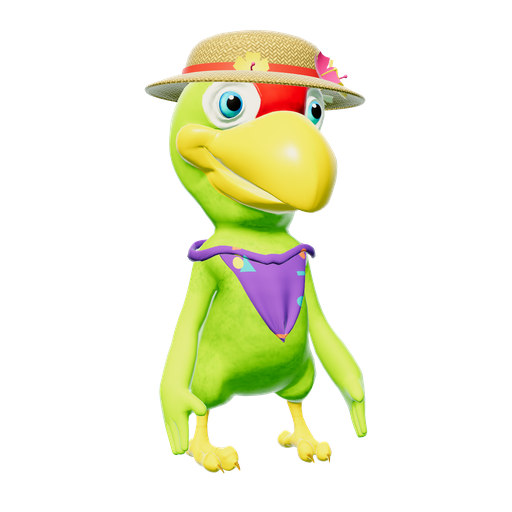
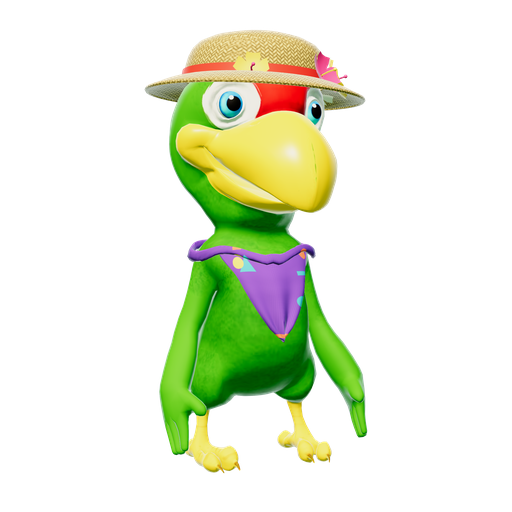
Vittata con el verde profundo v4 (Kelvin, 1-nov: «V4 perfecto, todas se ven iguales»)
- Piel vittata.jpg: su propia textura con el verde de las pieles de Kelvin; rojo, blanco, pico y ojos igual. Mismo modelo y rig (se aplica como piel, se deshace quitando la entrada).
- Retratos de Vittata, Iguaca, Abuela y Papá con el verde nuevo.
- pielesTest: 28 pieles; Vittata ahora tiene piel. Creador: 27 especies con piel.

Claude-Session: https://claude.ai/code/session_01CFhoPYgX5CfK78r6RNsNYz

Changed region(s): [[0.3125, 0.1562, 0.7188, 0.9062]]

diff --git a/src/pruebas/pieles.js b/src/pruebas/pieles.js
@@ -1,5 +1,5 @@
 /* AVE · AV.pielesTest: pieles de especie (src/personaje/pieles.js)
-   Las 27 cargan (1024², sRGB, flipY falso) y se aplican a un personaje aparte (no el jugador): cuerpo, pico y plumón de cría
+   Las 28 cargan (1024², sRGB, flipY falso) y se aplican a un personaje aparte (no el jugador): cuerpo, pico y plumón de cría
    con la piel y el tinte apagado; la piel fija sobrevive a applyLook; quitar() vuelve al mapa original; las especies sin
    piel conservan el tinte; solo se descarga la piel que un personaje pide, una vez.
    Devuelve { passed, total, results }. Se carga al pedir la prueba (boot.js), no en la descarga inicial del juego. */
@@ -17,23 +17,23 @@ window.AVPielesTest = function () {
     const nombre = e => decodeURIComponent(e.name.split('/').pop().replace(/\.jpg.*$/, ''));
     const sueltas = recursos().filter(e => pedidas.indexOf(nombre(e)) < 0);
     check('Carga perezosa: solo se descarga la piel que un personaje pide', !sueltas.length, sueltas.map(nombre).join(',') || (pedidas.length + ' pedidas antes de la prueba: ' + pedidas.join(',')));
-    // 2. Catálogo: 27 pieles; 26 enlazadas desde especies.js, sin especies inventadas
+    // 2. Catálogo: 28 pieles; 27 enlazadas desde especies.js, sin especies inventadas
     if (!window.AV_ESPECIES && window.AVE.assets) { try { await AVE.assets.script('content/comun/especies.js'); } catch (e) { /* falla abajo */ } }
     const sp = window.AV_ESPECIES ? window.AV_ESPECIES.especies : [];
     const enlazadas = sp.filter(x => x.piel);
-    check('Catálogo: 27 pieles distintas', PIELES.length === 27 && new Set(PIELES.map(p => p.piel)).size === 27, PIELES.length);
-    check('especies.js: 26 especies con piel y cada piel existe', enlazadas.length === 26 && enlazadas.every(x => POR_PIEL[x.piel] && POR_PIEL[x.piel].especie === x.id), enlazadas.length);
-    check('Vittata sigue sin piel (protagonista intacta)', !tiene('vittata'));
-    // 3. Las 27 cargan
+    check('Catálogo: 28 pieles distintas', PIELES.length === 28 && new Set(PIELES.map(p => p.piel)).size === 28, PIELES.length);
+    check('especies.js: 27 especies con piel y cada piel existe', enlazadas.length === 27 && enlazadas.every(x => POR_PIEL[x.piel] && POR_PIEL[x.piel].especie === x.id), enlazadas.length);
+    check('Vittata tiene su piel verde v4 (Kelvin, 1-nov; mismo modelo y rig)', tiene('vittata'));
+    // 3. Las 28 cargan
     const tex = await Promise.all(PIELES.map(p => cargar(p.piel)));
     const T = {}; PIELES.forEach((p, i) => { T[p.piel] = tex[i]; });
-    const malas = PIELES.filter((p, i) => !(tex[i] && tex[i].image && tex[i].image.width === 1024 && tex[i].image.height === 1024 && tex[i].flipY === false && tex[i].encoding === THREE.sRGBEncoding));
-    check('Las 27 pieles cargan (1024², sRGB, flipY falso)', !malas.length, malas.map(p => p.piel).join(','));
+    const malas = PIELES.filter((p, i) => !(tex[i] && tex[i].image && tex[i].image.width >= 512 && tex[i].image.width === tex[i].image.height && tex[i].flipY === false && tex[i].encoding === THREE.sRGBEncoding));
+    check('Las 28 pieles cargan (1024², o 512 si el look las topa; sRGB, flipY falso)', !malas.length, malas.map(p => p.piel).join(','));
     if (!window.AVCharacter) { check('Hay personaje para probar', false, 'sin AVCharacter'); return fin(); }
     // 4. Un personaje real aparte (no el jugador)
     const ch = await window.AVCharacter.create();
     try {
-      ch.applyLook({ species: 'vittata', accessories: {} });
+      ch.applyLook({ species: 'agilis', accessories: {} }); // sin piel: el mapa base es el del modelo
       const base = mapaBase(ch), on = ch.tint && ch.tint.tintOn.value;
       check('El personaje tiene mapa de color y tinte por máscaras', !!base && !!on);
       if (!base || !on) return fin();
@@ -53,25 +53,25 @@ window.AVPielesTest = function () {
         const ok = await aplicar(ch, p.especie || p.piel), m = cuerpo();
         if (!ok || m.length !== n0 || !m.every(x => x === T[p.piel]) || on.length() !== 0) fallos.push(p.piel);
       }
-      check('Las 27 se aplican (cuerpo, pico y plumón con la piel; tinte apagado)', !fallos.length && n0 >= 3, fallos.join(',') || n0 + ' materiales');
+      check('Las 28 se aplican (cuerpo, pico y plumón con la piel; tinte apagado)', !fallos.length && n0 >= 3, fallos.join(',') || n0 + ' materiales');
       await aplicar(ch, 'oratrix');
       ch.applyLook({ species: 'vittata', accessories: { neck: { id: 'panuelo', color: '#f2a03d' } } }); await listo(ch);
       check('La piel fija sobrevive a applyLook (crías y rivales con ropa)', cuerpo().every(x => x === T.oratrix) && on.length() === 0);
       quitar(ch); await listo(ch);
-      check('quitar() vuelve al mapa original', cuerpo().every(esBase));
+      check('quitar() suelta la piel fija y vuelve a la de su especie (vittata)', cuerpo().every(x => x === T.vittata));
       ch.applyLook({ species: 'agilis', accessories: {} }); await listo(ch);
       check('Especie sin piel (agilis): queda el tinte de hoy', cuerpo().every(esBase) && on.x === 1 && on.z === 1, [on.x, on.y, on.z].join(','));
       ch.applyLook({ species: 'amazonica', accessories: {} }); await listo(ch);
       check('Look con especie con piel (amazonica): usa la piel', cuerpo().every(x => x === T.amazonica) && on.length() === 0);
       ch.applyLook({ species: 'vittata', accessories: {} }); await listo(ch);
-      check('Volver a vittata devuelve su textura', cuerpo().every(esBase) && on.length() === 0);
+      check('Volver a vittata pone su piel verde', cuerpo().every(x => x === T.vittata) && on.length() === 0);
       body.parent.remove(plumon); plumon.material.dispose();
     } finally {
       if (window.AVCharacter.disposeObject) window.AVCharacter.disposeObject(ch.root);
     }
     // 5. Peso: cada piel se pidió una sola vez (caché compartida) y lo bajado sigue siendo solo lo pedido
     const kb = recursos().reduce((s, e) => s + (e.encodedBodySize || e.transferSize || 0), 0) / 1024;
-    check('Cada piel se descarga una vez y solo al usarla', pedidas.length === 27 && new Set(pedidas).size === 27 && recursos().every(e => pedidas.indexOf(nombre(e)) >= 0), pedidas.length + ' pedidas' + (kb ? ', ' + Math.round(kb) + ' KB' : ''));
+    check('Cada piel se descarga una vez y solo al usarla', pedidas.length === 28 && new Set(pedidas).size === 28 && recursos().every(e => pedidas.indexOf(nombre(e)) >= 0), pedidas.length + ' pedidas' + (kb ? ', ' + Math.round(kb) + ' KB' : ''));
     return fin();
   }
   return { test };

diff --git a/src/pruebas/motor.js b/src/pruebas/motor.js
@@ -98,7 +98,7 @@ AVE.module('pruebas', function (G) {
     // El material puede guardar el color en sRGB o ya pasado a lineal (flujo de color del personaje): ambos son el color elegido
     const lin = '#' + new THREE.Color('#7a4fb3').convertSRGBToLinear().getHexString();
     check('Cambiar el color reemplaza la pieza con el color nuevo', ch.mounted.neck.objects[0] !== before && (col === '#7a4fb3' || col === lin), col);
-    ch.applyLook({ species: 'versicolor', accessories: {} });
+    ch.applyLook({ species: 'festiva', accessories: {} });
     check('Quitar accesorios los desmonta', Object.keys(ch.mounted).length === 0 && !before.parent);
     // Ropero: cada pieza en cada estilo se monta en su hueso, y gorras/lentes no tocan ojos ni pico
     {
@@ -127,10 +127,10 @@ AVE.module('pruebas', function (G) {
       }
       check('El ropero monta todas sus piezas y estilos en sus huesos', failed.length === 0 && pieces > 0, failed.join(', ') || pieces + ' partes');
       check('Gorras y lentes del ropero no tapan los ojos (reposo)', wHits.length === 0, [...new Set(wHits)].join(', ') || 'sin choques');
-      ch.applyLook({ species: 'versicolor', accessories: {} });
+      ch.applyLook({ species: 'festiva', accessories: {} }); // con máscara y sin piel (versicolor ya tiene piel, que apaga la máscara)
     }
     const pc = ch.tint ? hexOf(ch.tint.patchColor.value) : (ch.materials.Patch ? hexOf(ch.materials.Patch.color) : null);
-    check('El plumaje cambia la máscara facial', pc === window.AVCharacter.SPECIES.versicolor.patch && (!ch.tint || ch.tint.tintOn.value.x === 1), pc || 'sin máscara ni material Patch');
+    check('El plumaje cambia la máscara facial', pc === window.AVCharacter.SPECIES.festiva.patch && (!ch.tint || ch.tint.tintOn.value.x === 1), pc || 'sin máscara ni material Patch');
     // Retrato idéntico para juego y cómic
     const prevProfile = S.profile;
     S.profile = { created: true, name: 'Prueba', look: { species: 'vittata', accessories: { eyes: { id: 'gafas', color: '#2b2b2b' }, neck: { id: 'panuelo', color: '#d6403a' } } } };

diff --git a/src/personaje/pieles.js b/src/personaje/pieles.js
@@ -22,7 +22,7 @@
 (function () {
   'use strict';
   const DIR = 'assets/textures/pieles/';
-  // Las 27 pieles (22 cocidas de los .blend de Kelvin + ventralis, finschi, lilacina, vinacea y autumnalis, pintada sobre el UV el 1-nov con fuentes: docs/equipo/pieles_fuentes/): archivo de Kelvin → piel → especie del catálogo. anillo: color medio de la piel alrededor del ojo
+  // Las 28 pieles (22 cocidas de los .blend de Kelvin + vittata verde v4 + ventralis, finschi, lilacina, vinacea y autumnalis, pintada sobre el UV el 1-nov con fuentes: docs/equipo/pieles_fuentes/): archivo de Kelvin → piel → especie del catálogo. anillo: color medio de la piel alrededor del ojo
   // (lo mide pieles_cocer.py); lo usan los párpados. ochrocephala_panamensis es subespecie: el catálogo no le da id (Kelvin decide).
   const PIELES = [
     { piel: 'aestiva', especie: 'aestiva', archivo: 'Aestiva.blend', anillo: '#bcb496' },
@@ -47,6 +47,7 @@
     { piel: 'viridigenalis', especie: 'viridigenalis', archivo: 'Viridigenalis.blend', anillo: '#bcb496' },
     { piel: 'xantholora', especie: 'xantholora', archivo: 'Xantholora.blend', anillo: '#bcb496' },
     { piel: 'tresmariae', especie: 'tresmariae', archivo: 'tresmariae.blend', anillo: '#bcb496' },
+    { piel: 'vittata', especie: 'vittata', archivo: null, anillo: '#f4f4f0' }, // verde profundo v4 (Kelvin, 1-nov): su propia textura con el verde de las pieles de Kelvin
     { piel: 'ventralis', especie: 'ventralis', archivo: null, anillo: '#ece8dc' }, // pintada sobre el UV (1-nov), anillo ocular blanco
     { piel: 'finschi', especie: 'finschi', archivo: null, anillo: '#c9c7c2' }, // pintada sobre el UV (1-nov)
     { piel: 'lilacina', especie: 'lilacina', archivo: null, anillo: '#eadf9e' }, // pintada sobre el UV (1-nov)

diff --git a/src/game/creador.js b/src/game/creador.js
@@ -392,7 +392,7 @@ AVE.module('creador', function (G) {
       const ES = window.AV_ESPECIES;
       const conPiel = ES ? ES.especies.concat(ES.extintas || []).filter(e => e.piel && AVE.pieles.tiene(e.id)) : [];
       const faltan = conPiel.filter(e => !ids.has(e.id)).map(e => e.id);
-      ok('Las 26 especies con piel salen en el creador (21 de Kelvin + 5 pintadas)', conPiel.length === 26 && !faltan.length, (faltan.join(',') || String(conPiel.length)));
+      ok('Las 27 especies con piel salen en el creador (21 de Kelvin + 6 pintadas, con vittata)', conPiel.length === 27 && !faltan.length, (faltan.join(',') || String(conPiel.length)));
       ok('Vittata sigue la primera', ops[0] && ops[0].id === 'vittata');
       const sinPiel = ES ? ES.especies.concat(ES.extintas || []).filter(e => !e.piel && e.id !== 'vittata' && !C3.SPECIES[e.id]) : [];
       const coladas = sinPiel.filter(e => ids.has(e.id)).map(e => e.id);

diff --git a/content/comun/especies.js b/content/comun/especies.js
@@ -44,6 +44,7 @@
     "especies": [
       {
         "id": "vittata",
+        "piel": "vittata",
         "cientifico": "Amazona vittata",
         "comun": {
           "es": "cotorra puertorriqueña",
